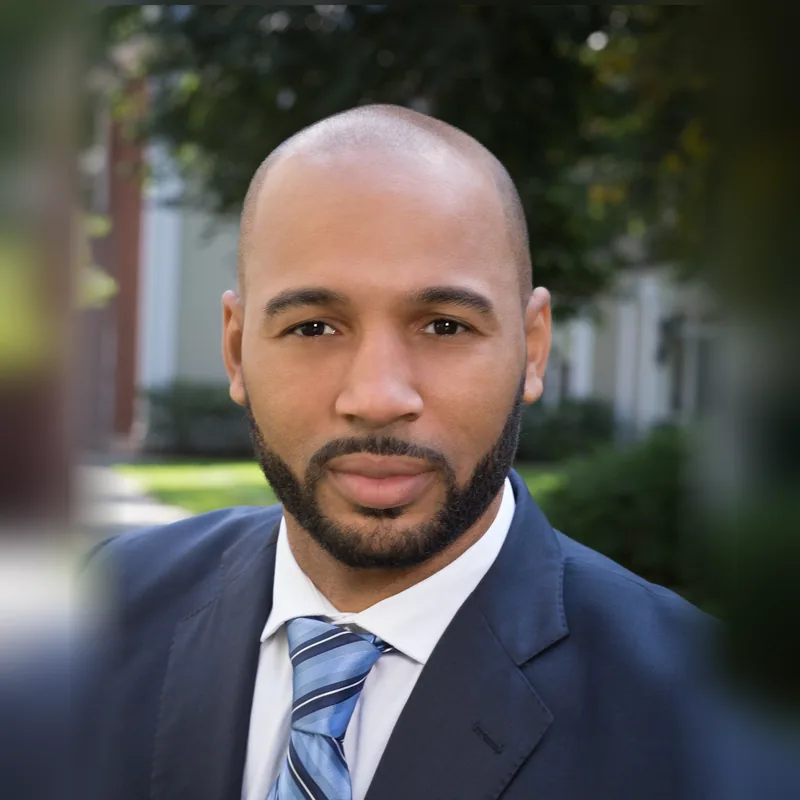
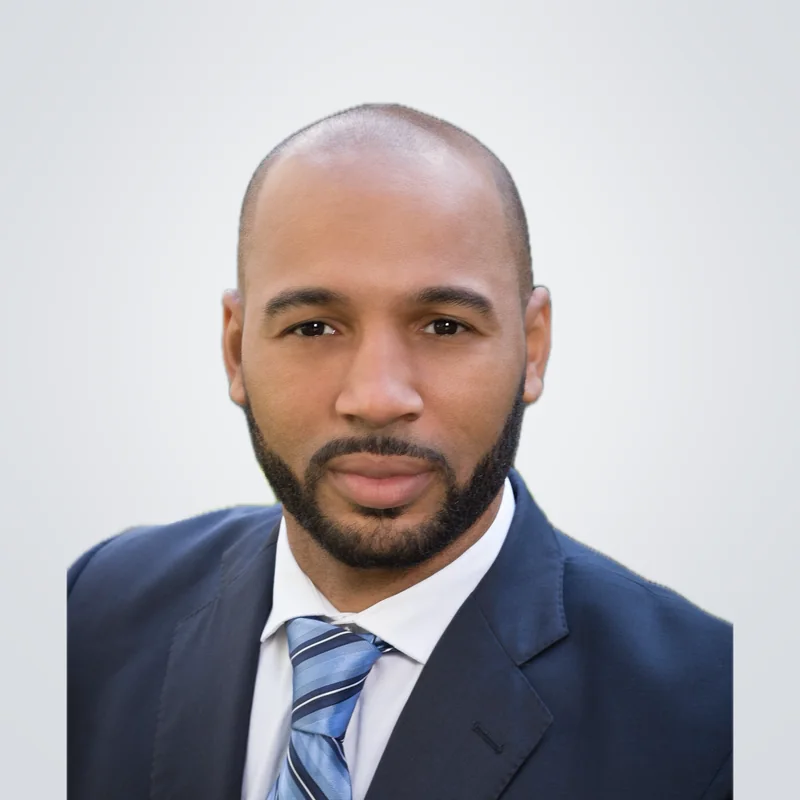
Board: Christopher Eaglin on a studio backdrop
Background removed with the on-machine Apple Vision cut-out (his pixels
untouched), set on a soft light-grey backdrop to match the other portraits.

diff --git a/index.html b/index.html
@@ -699,7 +699,7 @@
         </div>
         <div class="board-member reveal reveal-delay-2">
           <div class="board-member__photo">
-            <img src="images/board-christopher.webp" alt="Christopher Eaglin" loading="lazy" draggable="false" width="800" height="800">
+            <img src="images/board-christopher.webp?v=2" alt="Christopher Eaglin" loading="lazy" draggable="false" width="800" height="800">
           </div>
           <p class="board-member__name">Christopher Eaglin</p>
         </div>
